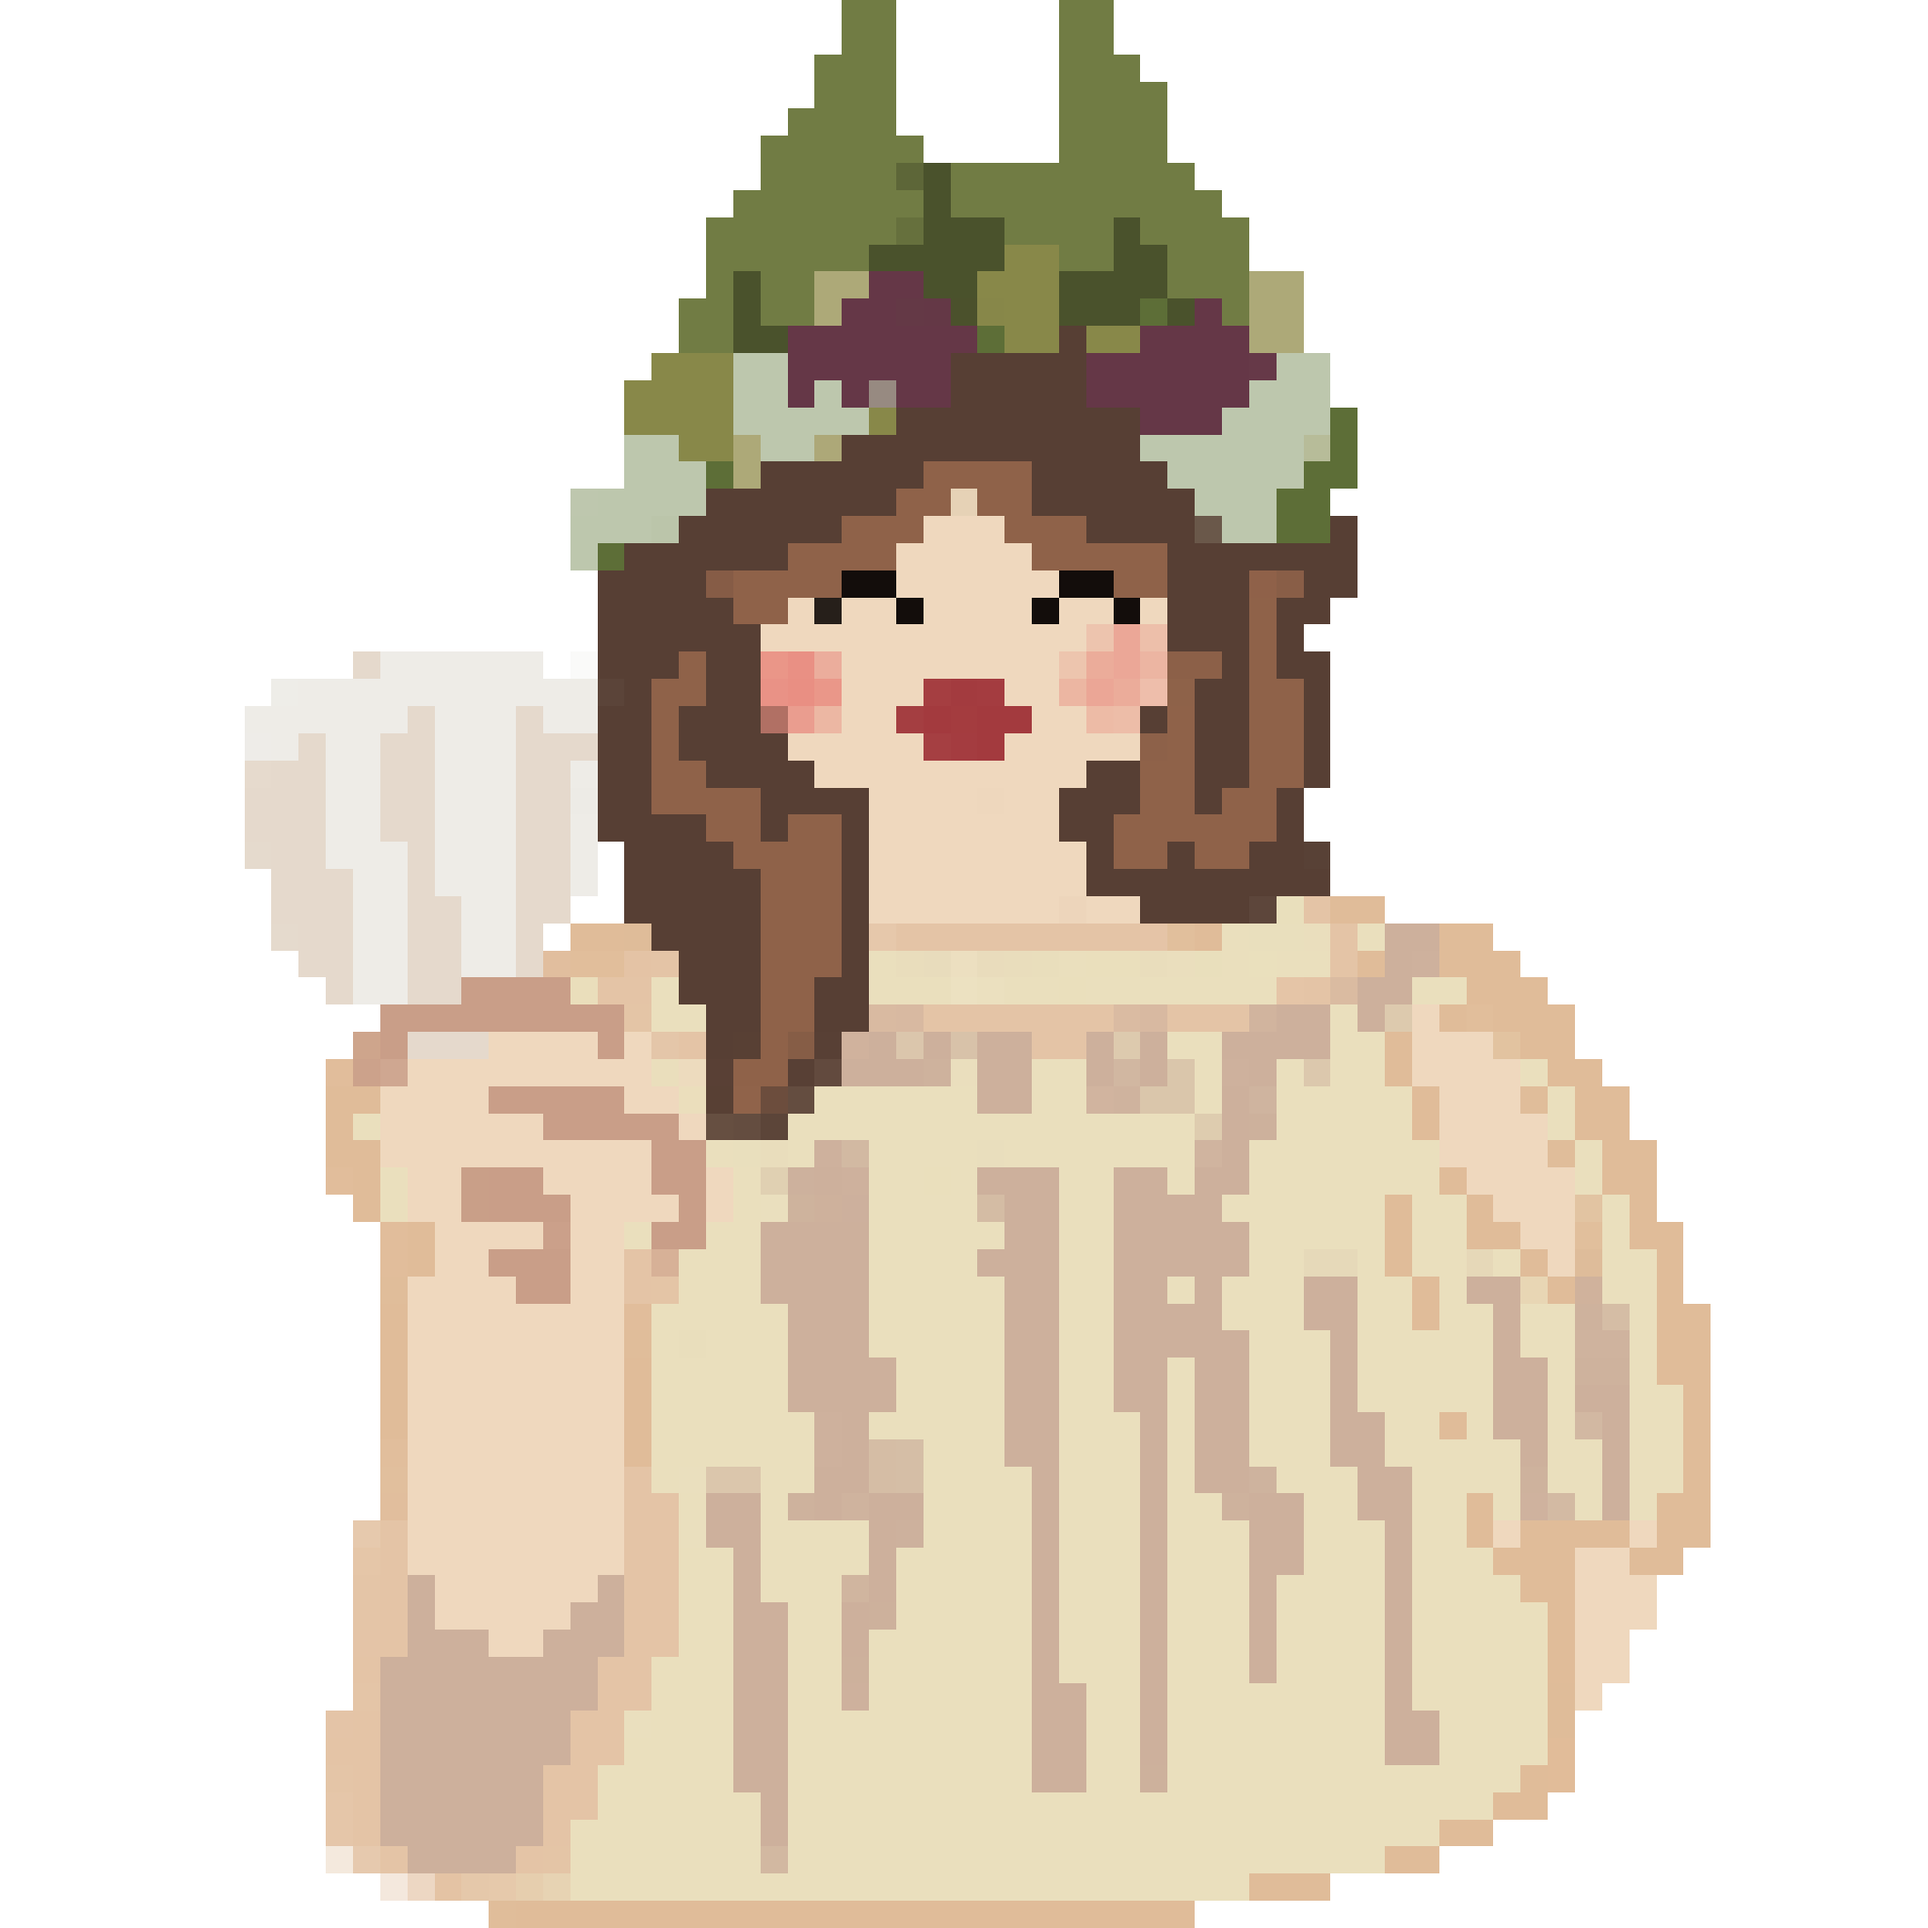
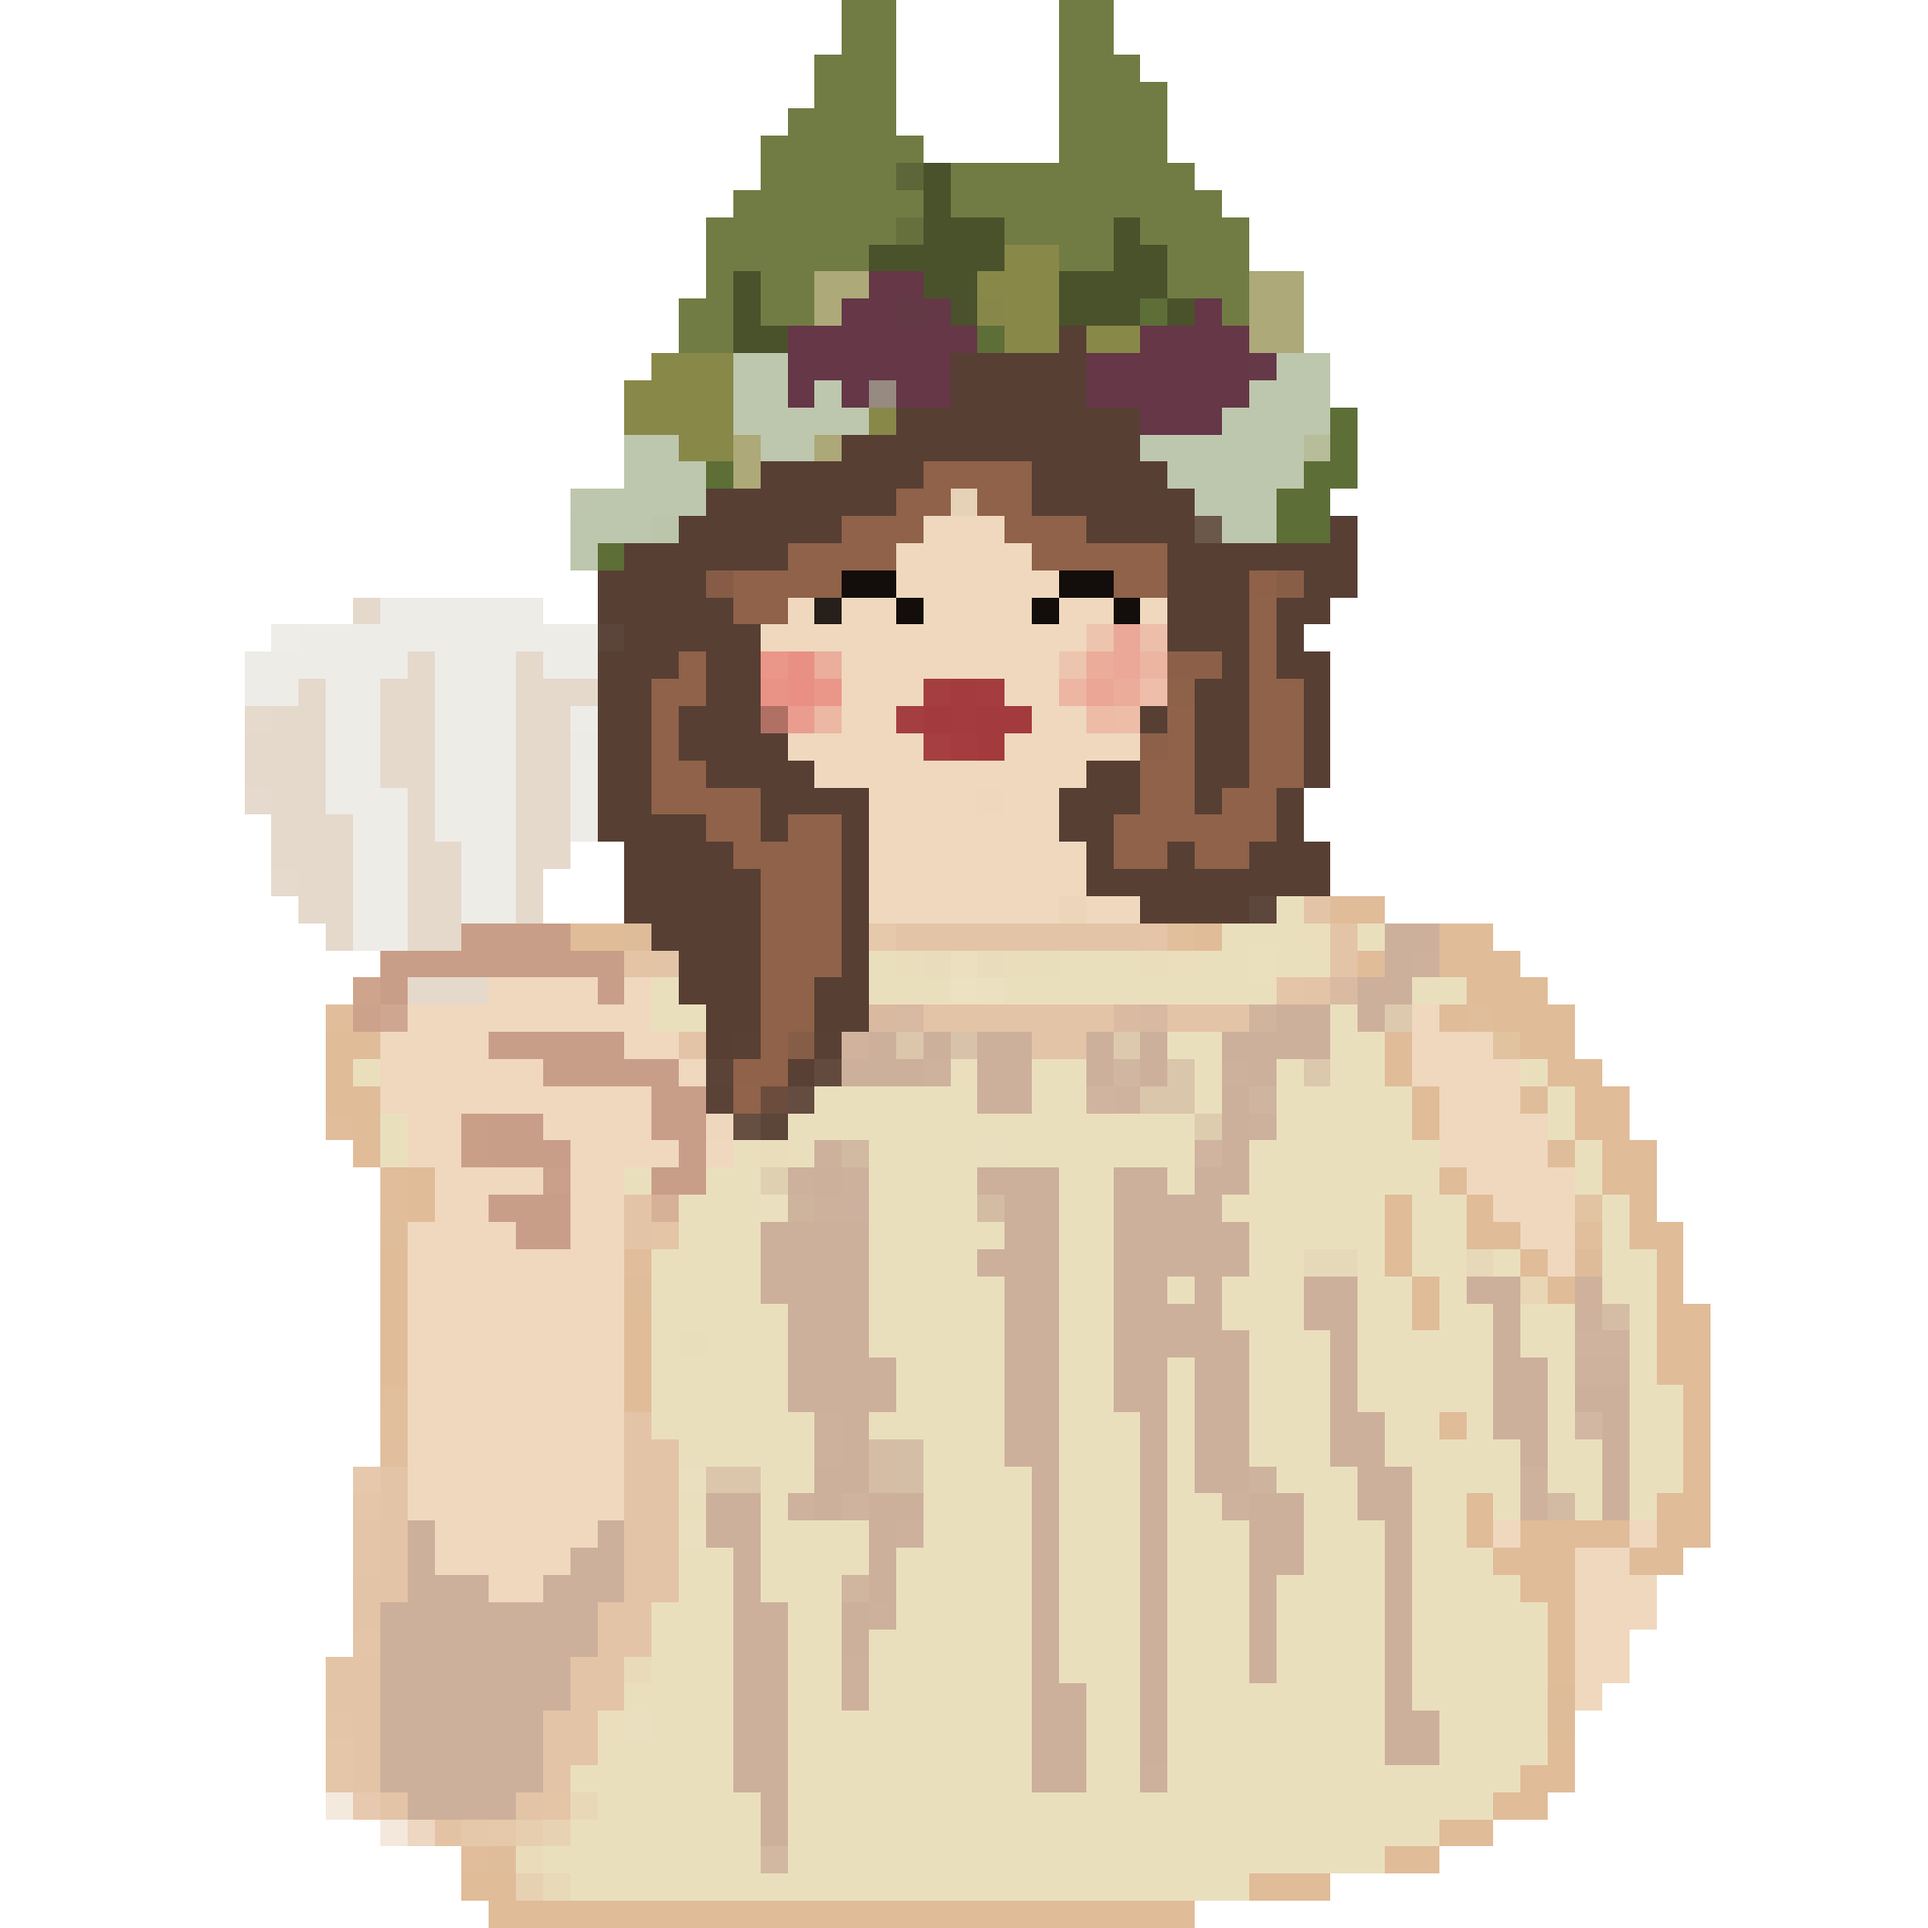
fix fat lady happy

Changed region(s): [[0.125, 0.3125, 0.375, 0.6875], [0.1562, 0.75, 0.375, 1.0]]

diff --git a/feat/password/fat-lady-test.html b/feat/password/fat-lady-test.html
@@ -1,0 +1,217 @@
+<!DOCTYPE html>
+<html lang="en">
+<head>
+  <meta charset="UTF-8" />
+  <meta name="viewport" content="width=device-width, initial-scale=1.0" />
+  <title>Fat Lady Animation Test</title>
+  <style>
+    *, *::before, *::after { box-sizing: border-box; margin: 0; padding: 0; }
+
+    body {
+      min-height: 100vh;
+      display: flex;
+      flex-direction: column;
+      align-items: center;
+      justify-content: center;
+      gap: 32px;
+      padding: 32px;
+      background: #1a0d08;
+      color: #e8d5b5;
+      font-family: Georgia, serif;
+    }
+
+    h1 {
+      font-size: 1.4rem;
+      letter-spacing: 0.04em;
+      color: #c9993c;
+    }
+
+    .preview-row {
+      display: flex;
+      gap: 48px;
+      flex-wrap: wrap;
+      justify-content: center;
+    }
+
+    .preview-col {
+      display: flex;
+      flex-direction: column;
+      align-items: center;
+      gap: 12px;
+    }
+
+    .preview-col h2 {
+      font-size: 1rem;
+      font-weight: normal;
+      color: #c9993c;
+      text-transform: uppercase;
+      letter-spacing: 0.08em;
+    }
+
+    .frame {
+      position: relative;
+      width: 240px;
+      aspect-ratio: 0.75;
+      border-radius: 8px;
+      background:
+        linear-gradient(135deg, #8b5e26 0%, #5a3a10 30%, #7a4e1e 60%, #3d2108 100%);
+      box-shadow:
+        0 0 0 4px #2a1505,
+        0 0 0 6px #7a4e1e,
+        0 0 0 10px #2a1505,
+        0 28px 64px rgba(0,0,0,0.6),
+        inset 0 0 12px rgba(0,0,0,0.4);
+    }
+
+    .frame::before {
+      content: "";
+      position: absolute;
+      inset: 8px;
+      border-radius: 4px;
+      border: 2px solid rgba(201,153,60,0.4);
+      box-shadow: inset 0 0 8px rgba(0,0,0,0.3);
+      pointer-events: none;
+    }
+
+    .frame-inner {
+      position: absolute;
+      inset: 14px;
+      border-radius: 4px;
+      overflow: hidden;
+      background:
+        radial-gradient(ellipse at 50% 80%, rgba(80,35,10,0.9), rgba(20,8,4,1) 70%);
+    }
+
+    .frame-inner img {
+      width: 100%;
+      height: 100%;
+      object-fit: cover;
+      display: block;
+    }
+
+    .controls {
+      display: flex;
+      gap: 12px;
+      align-items: center;
+    }
+
+    .controls label {
+      font-size: 0.85rem;
+      color: #a08060;
+    }
+
+    .controls select {
+      padding: 4px 8px;
+      font-family: inherit;
+      font-size: 0.85rem;
+      background: #2a1505;
+      color: #e8d5b5;
+      border: 1px solid #7a4e1e;
+      border-radius: 4px;
+    }
+
+    button.cycle-btn {
+      padding: 6px 16px;
+      font-family: inherit;
+      font-size: 0.85rem;
+      background: #5a3a10;
+      color: #e8d5b5;
+      border: 1px solid #7a4e1e;
+      border-radius: 4px;
+      cursor: pointer;
+    }
+    button.cycle-btn:hover { background: #7a4e1e; }
+
+    .frame-label {
+      font-size: 0.75rem;
+      color: #806040;
+    }
+  </style>
+</head>
+<body>
+  <h1>Fat Lady — Animation Frame Test</h1>
+
+  <div class="controls">
+    <label for="speed">Cycle speed</label>
+    <select id="speed">
+      <option value="800">800 ms</option>
+      <option value="500">500 ms</option>
+      <option value="300" selected>300 ms</option>
+      <option value="150">150 ms</option>
+    </select>
+    <button class="cycle-btn" id="toggleCycle">Start Cycling</button>
+  </div>
+
+  <div class="preview-row">
+    <!-- Neutral -->
+    <div class="preview-col">
+      <h2>Neutral</h2>
+      <div class="frame">
+        <div class="frame-inner">
+          <img id="neutralImg" src="../../assets/fat_lady/fat_lady_neutral_1.png" alt="Neutral" />
+        </div>
+      </div>
+      <span class="frame-label" id="neutralLabel">Frame 1 / 4</span>
+    </div>
+
+    <!-- Happy -->
+    <div class="preview-col">
+      <h2>Happy</h2>
+      <div class="frame">
+        <div class="frame-inner">
+          <img id="happyImg" src="../../assets/fat_lady/fat_lady_happy_1.png" alt="Happy" />
+        </div>
+      </div>
+      <span class="frame-label" id="happyLabel">Frame 1 / 4</span>
+    </div>
+  </div>
+
+  <script>
+    const FRAMES = 4;
+    const neutralImg = document.getElementById('neutralImg');
+    const happyImg   = document.getElementById('happyImg');
+    const neutralLabel = document.getElementById('neutralLabel');
+    const happyLabel   = document.getElementById('happyLabel');
+    const speedSelect  = document.getElementById('speed');
+    const toggleBtn    = document.getElementById('toggleCycle');
+
+    let neutralIdx = 1;
+    let happyIdx   = 1;
+    let timer = null;
+
+    function setFrame(type, idx) {
+      const img   = type === 'neutral' ? neutralImg : happyImg;
+      const label = type === 'neutral' ? neutralLabel : happyLabel;
+      img.src = `../../assets/fat_lady/fat_lady_${type}_${idx}.png`;
+      label.textContent = `Frame ${idx} / ${FRAMES}`;
+    }
+
+    function advance() {
+      neutralIdx = (neutralIdx % FRAMES) + 1;
+      happyIdx   = (happyIdx   % FRAMES) + 1;
+      setFrame('neutral', neutralIdx);
+      setFrame('happy',   happyIdx);
+    }
+
+    function startCycling() {
+      if (timer) return;
+      timer = setInterval(advance, Number(speedSelect.value));
+      toggleBtn.textContent = 'Stop Cycling';
+    }
+
+    function stopCycling() {
+      clearInterval(timer);
+      timer = null;
+      toggleBtn.textContent = 'Start Cycling';
+    }
+
+    toggleBtn.addEventListener('click', () => {
+      timer ? stopCycling() : startCycling();
+    });
+
+    speedSelect.addEventListener('change', () => {
+      if (timer) { stopCycling(); startCycling(); }
+    });
+  </script>
+</body>
+</html>
